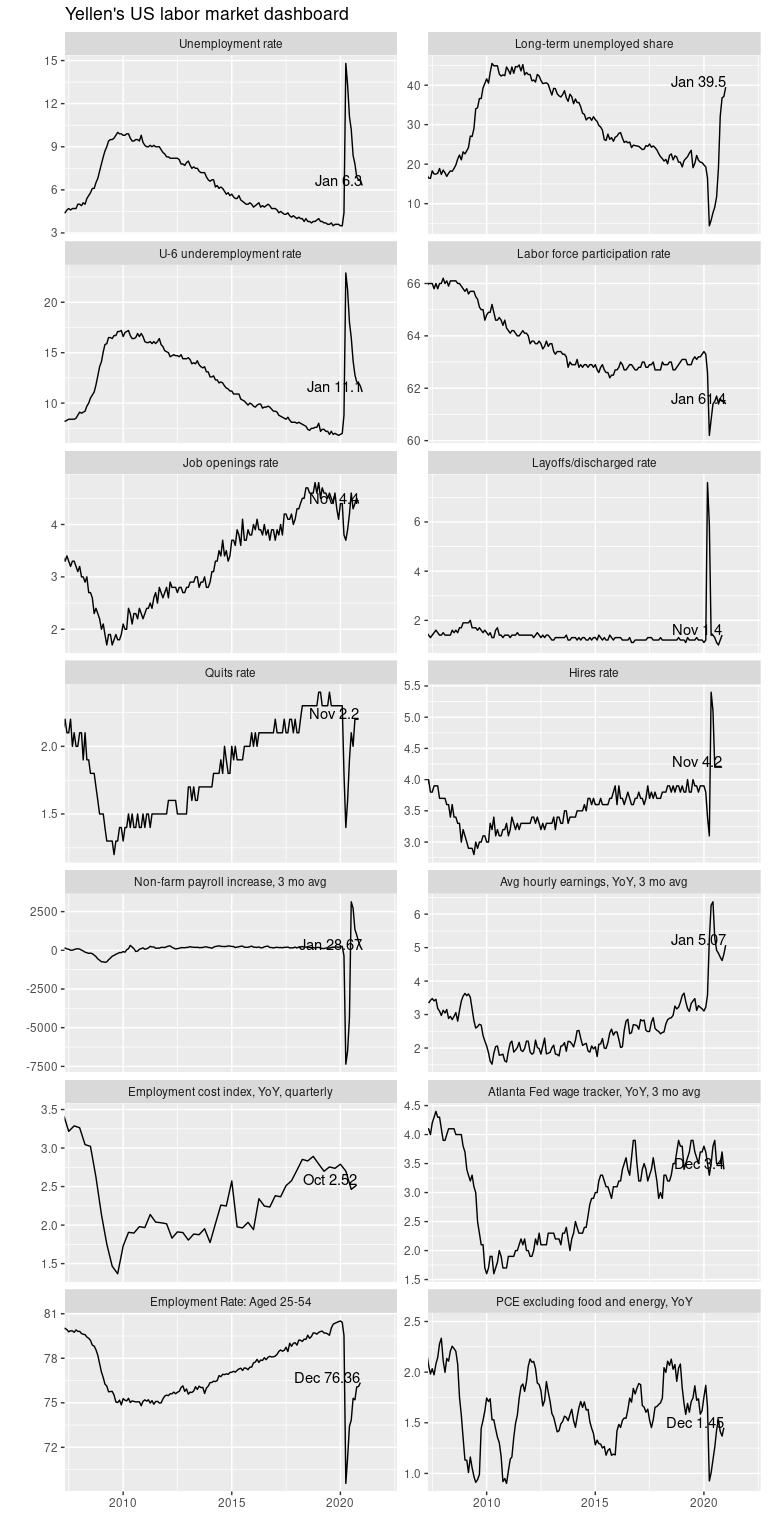
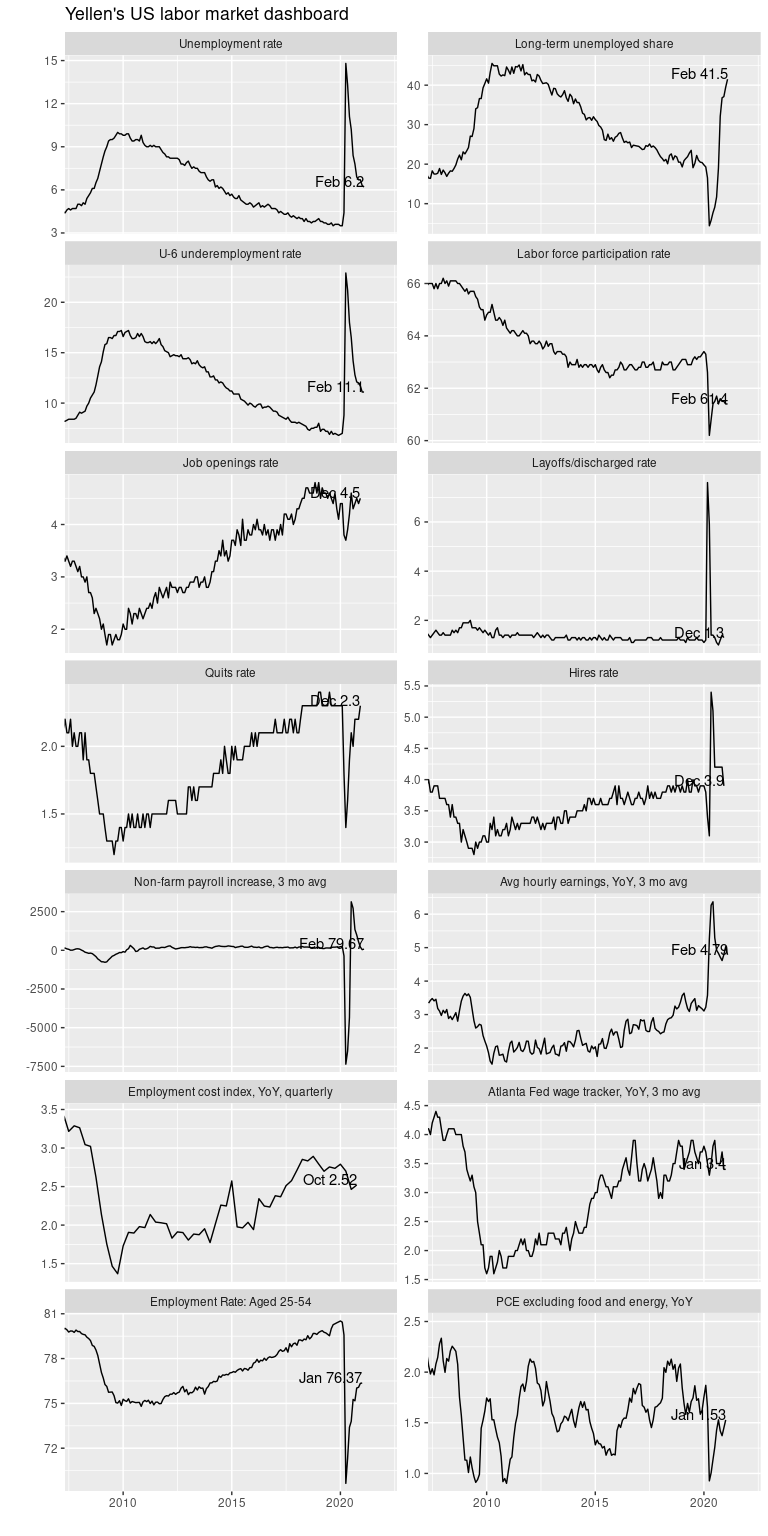
update February 2021 employment

diff --git a/README.md b/README.md
@@ -14,7 +14,7 @@ Mitsuo Shiota
 -   [Prepare for the plot](#prepare-for-the-plot)
 -   [Dashboard](#dashboard)
 
-Updated: 2021-02-06
+Updated: 2021-03-06
 
 ## Summary
 
